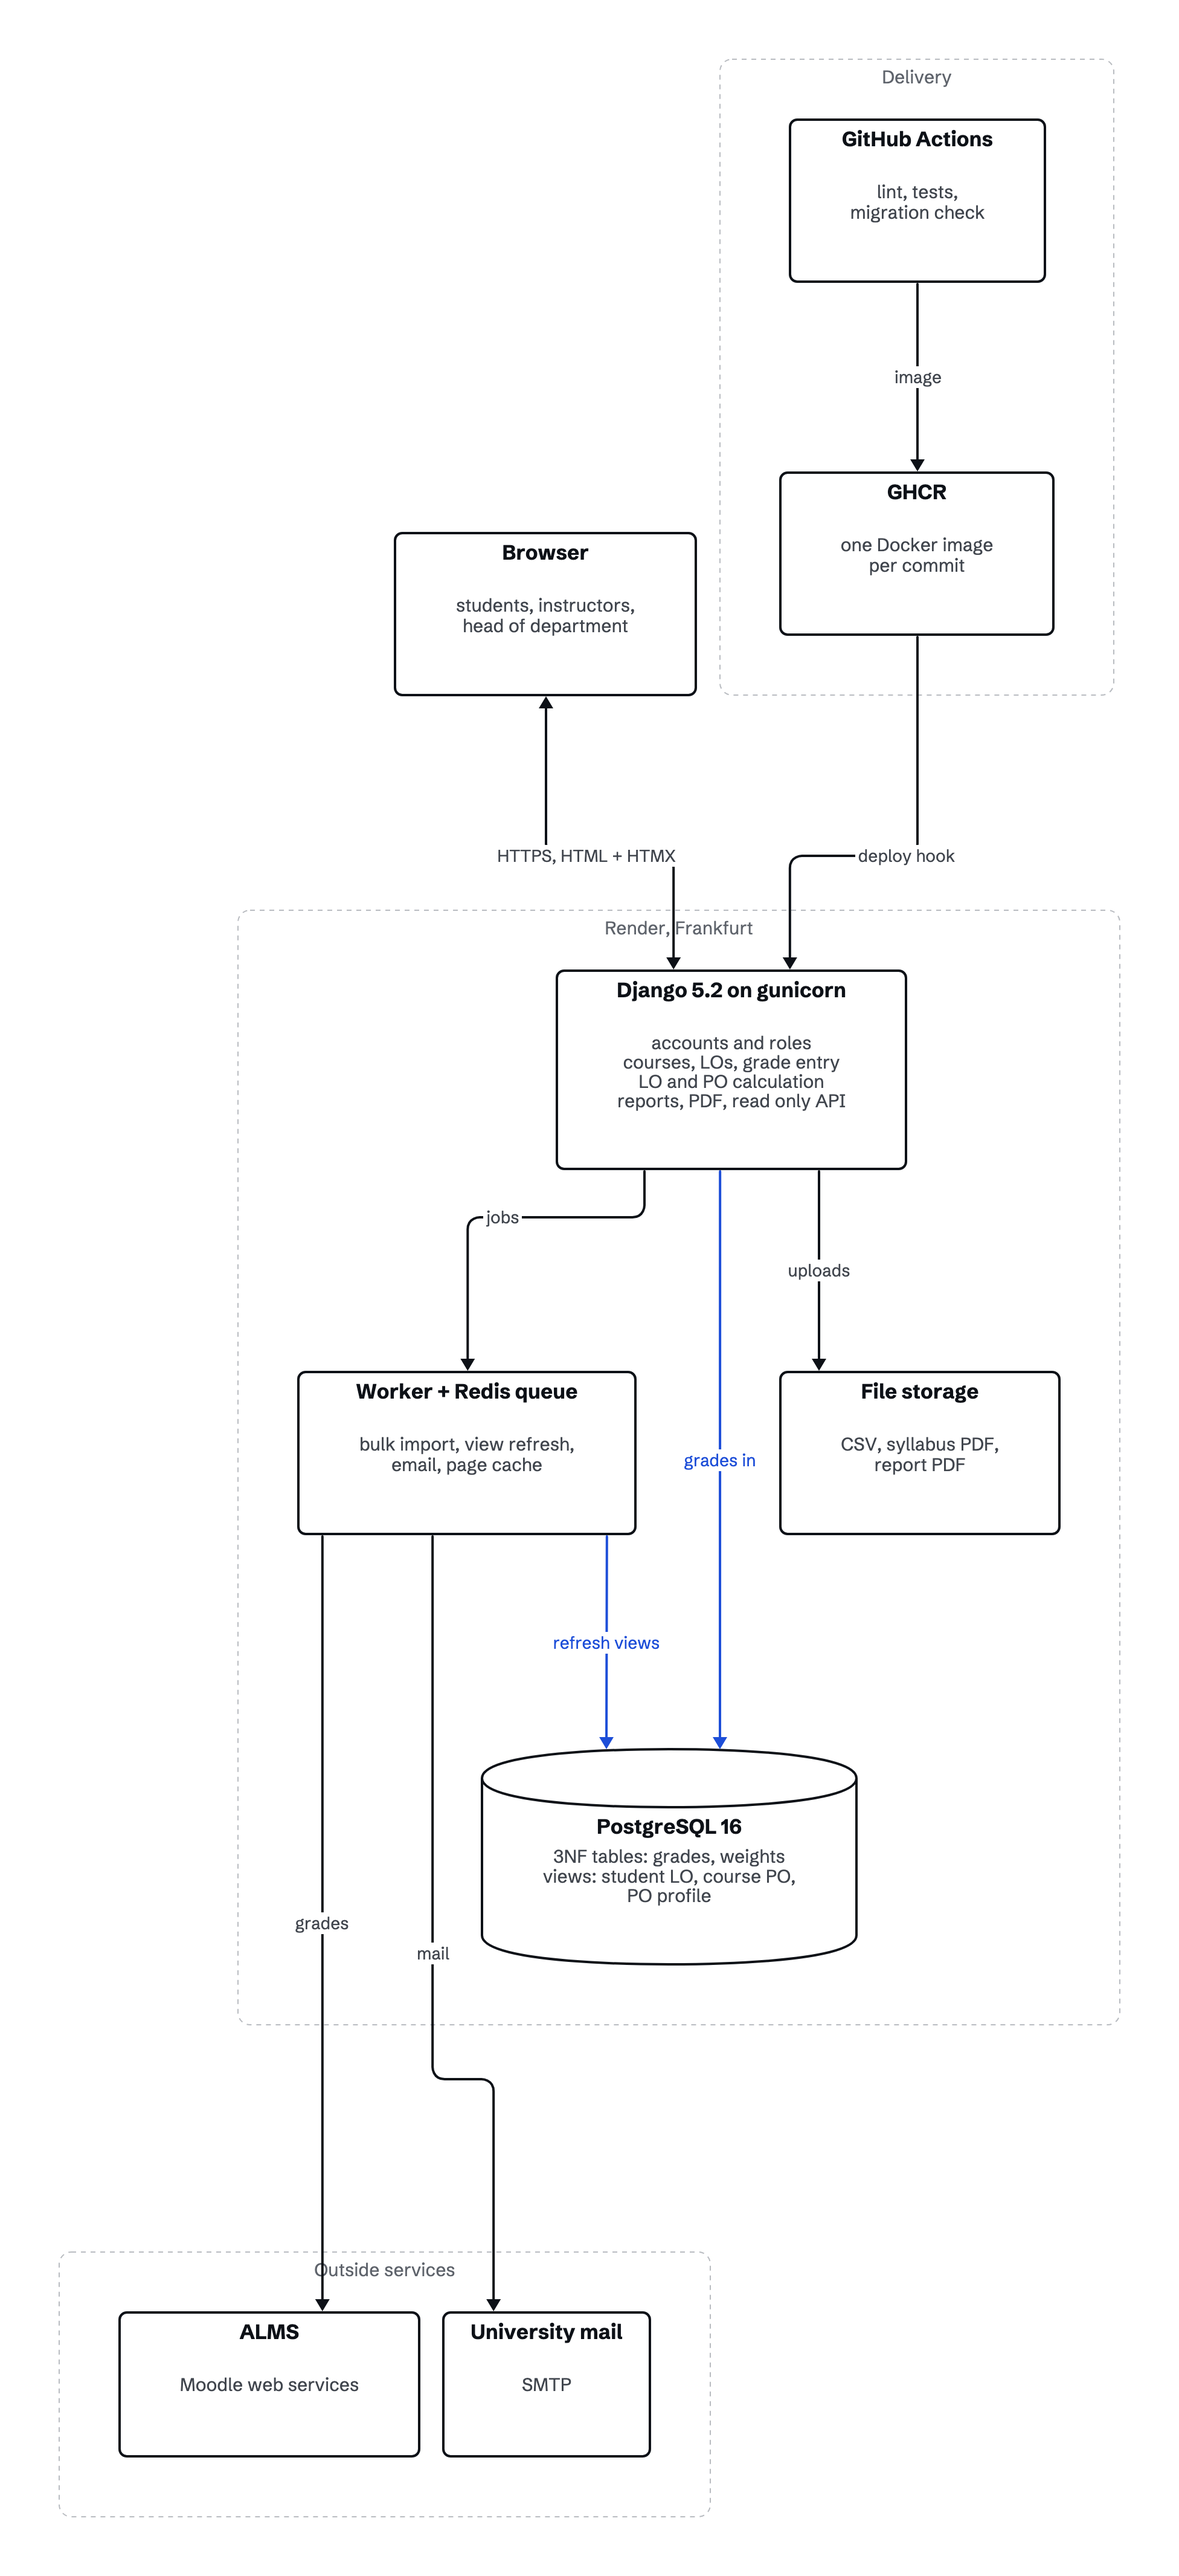
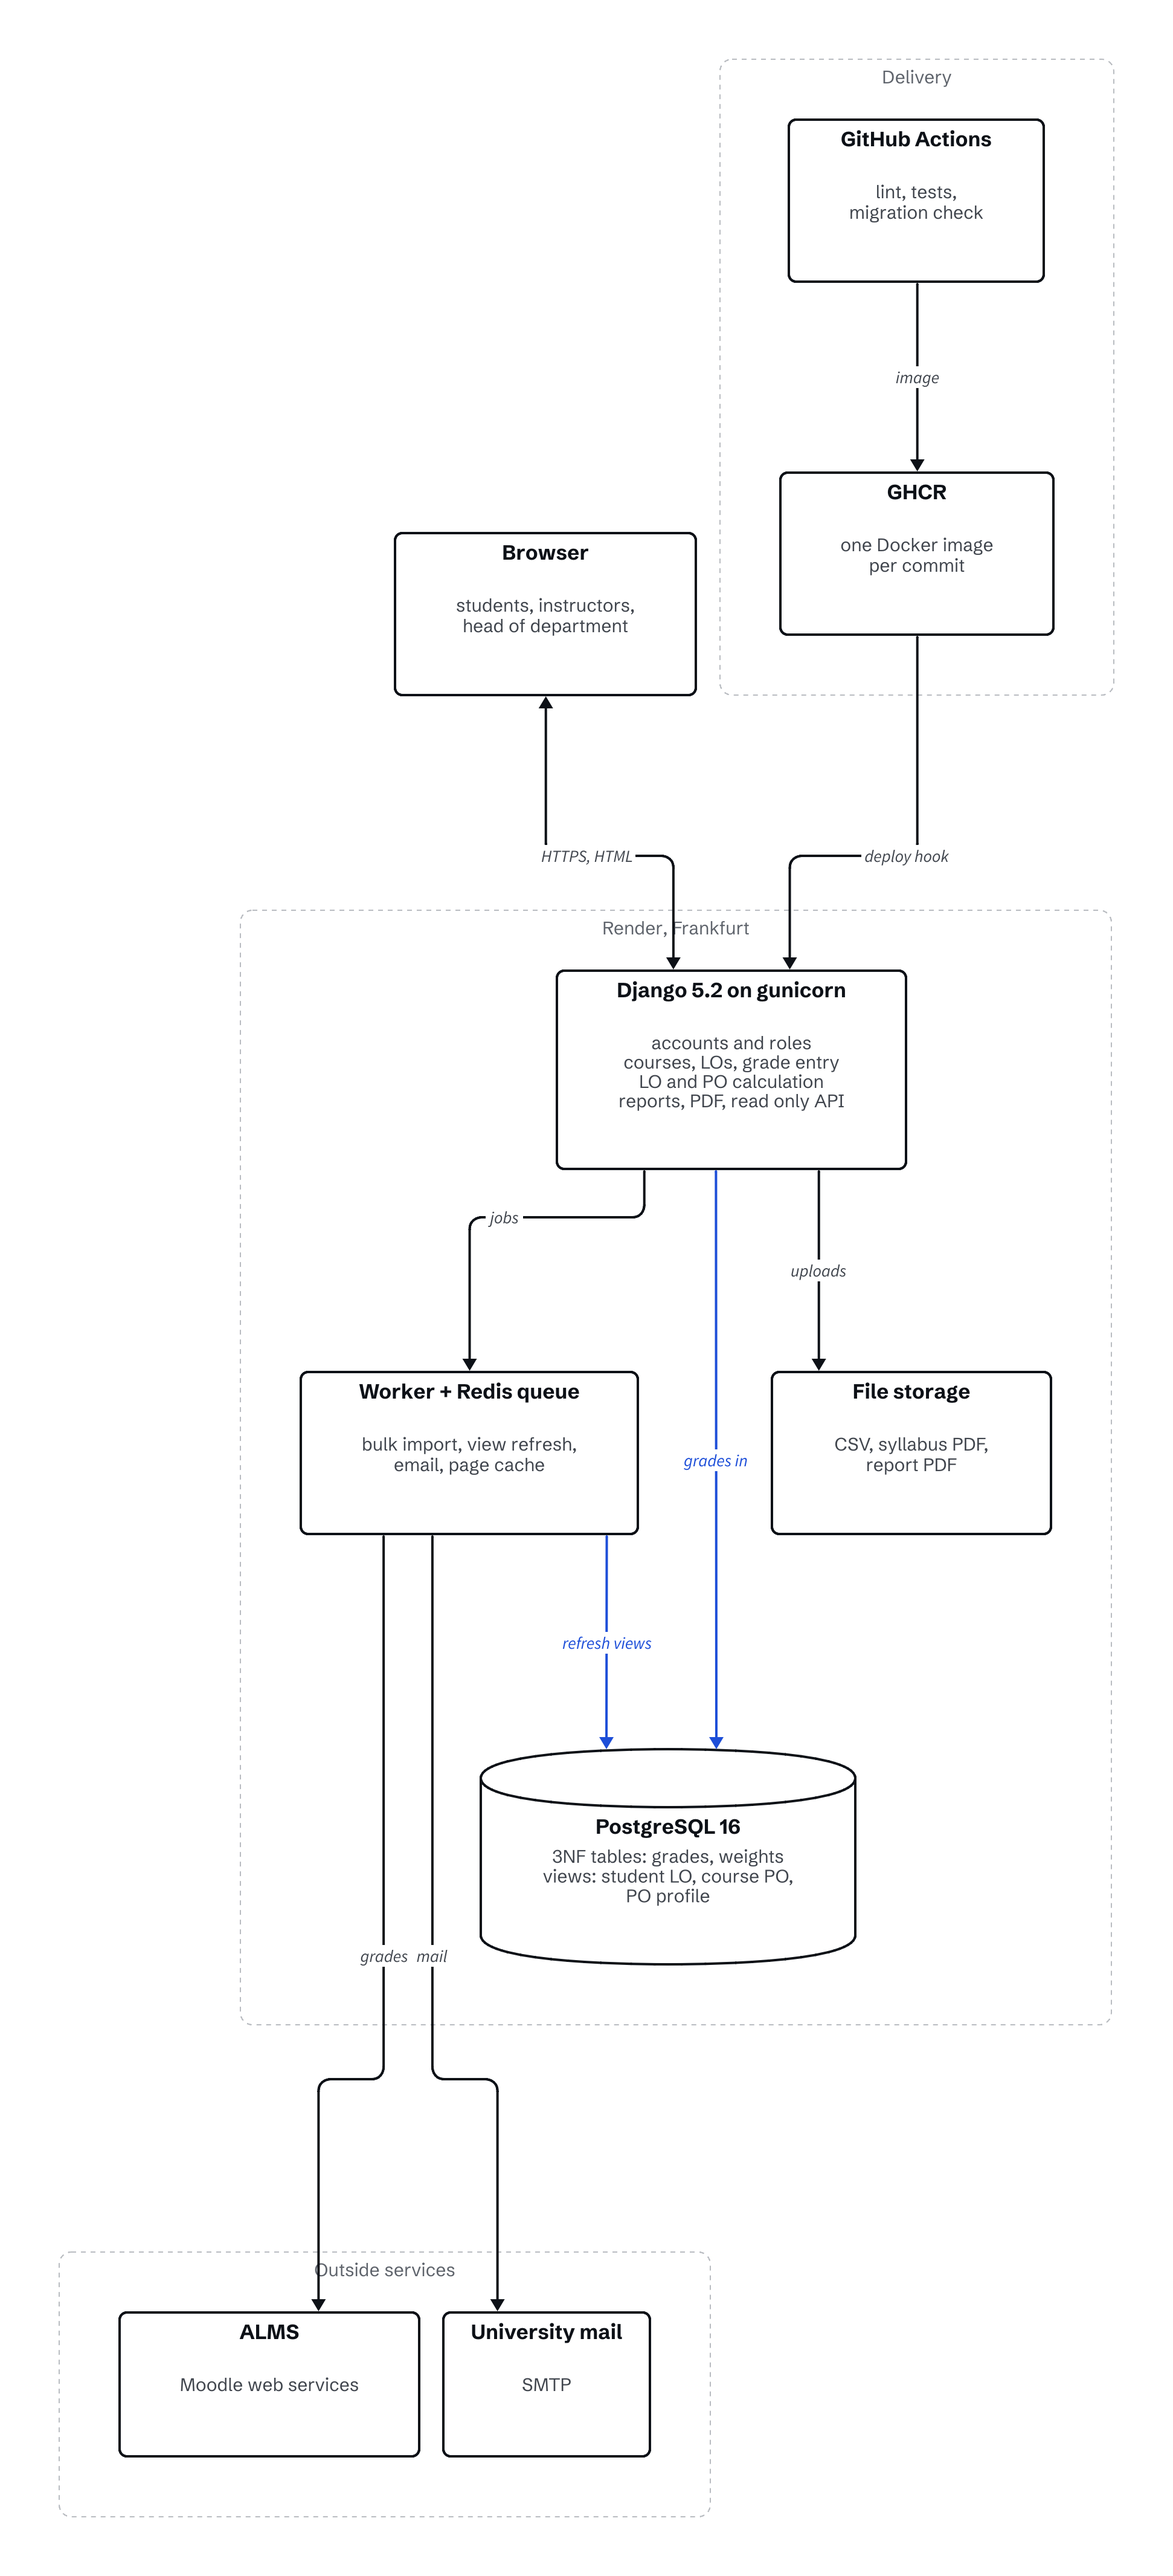
Sprint 2 review fixes, drop HTMX from the architecture diagram

diff --git a/docs/sprints.md b/docs/sprints.md
@@ -61,7 +61,7 @@ Extra work, no points: decision notes on outcome weights ([#62](https://github.c
 | [#25](https://github.com/rmz-oz/aculator/issues/25) | PO components | esinsarialtin | 3 | done, PR [#78](https://github.com/rmz-oz/aculator/pull/78) |
 | [#31](https://github.com/rmz-oz/aculator/issues/31) | Class diagram | rmz-oz | 1 | done, PR [#65](https://github.com/rmz-oz/aculator/pull/65) |
 | [#34](https://github.com/rmz-oz/aculator/issues/34) | Getting Real notes | rmz-oz | 1 | done, PR [#59](https://github.com/rmz-oz/aculator/pull/59) |
-| [#60](https://github.com/rmz-oz/aculator/issues/60) | Deploy check can pass on the old version | rmz-oz | 1 | done |
+| [#60](https://github.com/rmz-oz/aculator/issues/60) | Deploy check can pass on the old version | rmz-oz | 1 | done in Sprint 1, PR [#61](https://github.com/rmz-oz/aculator/pull/61) |
 
 ### Planning (2026-11-05)
 
@@ -70,9 +70,9 @@ Extra work, no points: decision notes on outcome weights ([#62](https://github.c
 
 ### Review (2026-11-12)
 
-- 34 of 34 points done. Velocity so far: 20, 34. Average 27.
+- 34 of 34 points done. #60 (1 point) was finished in Sprint 1 but only labelled for Sprint 2, so real Sprint 2 work is 33. Velocity so far: 20, 34. Average 27.
 - Calculation, materialized views, roles, PO components and the course report run on Render from `main`.
-- Mid semester slides and report for both courses presented on Nov 12.
+- Mid semester slides and report presented in CSE 321 on Nov 12. The same slides cover CSE 311, which has no presentation date yet (#16).
 - Found while preparing the slides, opened for Sprint 4: the course report does not read the materialized views (#79), changing a course's ECTS changes old reports (#80), `docker compose` starts only the database (#81). The free Render database expires on Dec 3 (#82).
 - Student profile (#14) was in the Sprint 2 goal but not in the sprint, it is in Sprint 3.
 - Nothing carries over.

diff --git a/docs/getting-real.md b/docs/getting-real.md
@@ -7,7 +7,7 @@ Everyone adds at least two of their own (#34).
 
 | Chapter | What we did | Where | Who |
 |---|---|---|---|
-| 7. Fix Time and Budget, Flex Scope | Dates are fixed (12 and 17 Nov, 29 Dec) and sprints are one week; scope moves instead. The animated character has no sprint and only happens if there is time. | milestones, #40 | Ramiz |
+| 7. Fix Time and Budget, Flex Scope | Dates are fixed (12 Nov mid semester, 29 Dec demo) and sprints are one week; scope moves instead. The animated character has no sprint and only happens if there is time. | milestones, #40 | Ramiz |
 | 8. Have an Enemy | We read the closest existing project (a Django CO-PO tool, IJERT 2025) and did the opposite where it breaks: it rounds between steps and ties LOs to the course. | decisions 0002, 0003 | Ramiz |
 | 20. Make Opinionated Software | One way to weight outcomes (1 to 5 levels, ECTS across courses) instead of a settings page with every option. | decision 0004 | Ramiz |
 | 29. Race to Running Software | The first pull request was a running Django app on PostgreSQL with CI; deployment came in the first sprint, before any feature. | #23, #30 | Ramiz |
